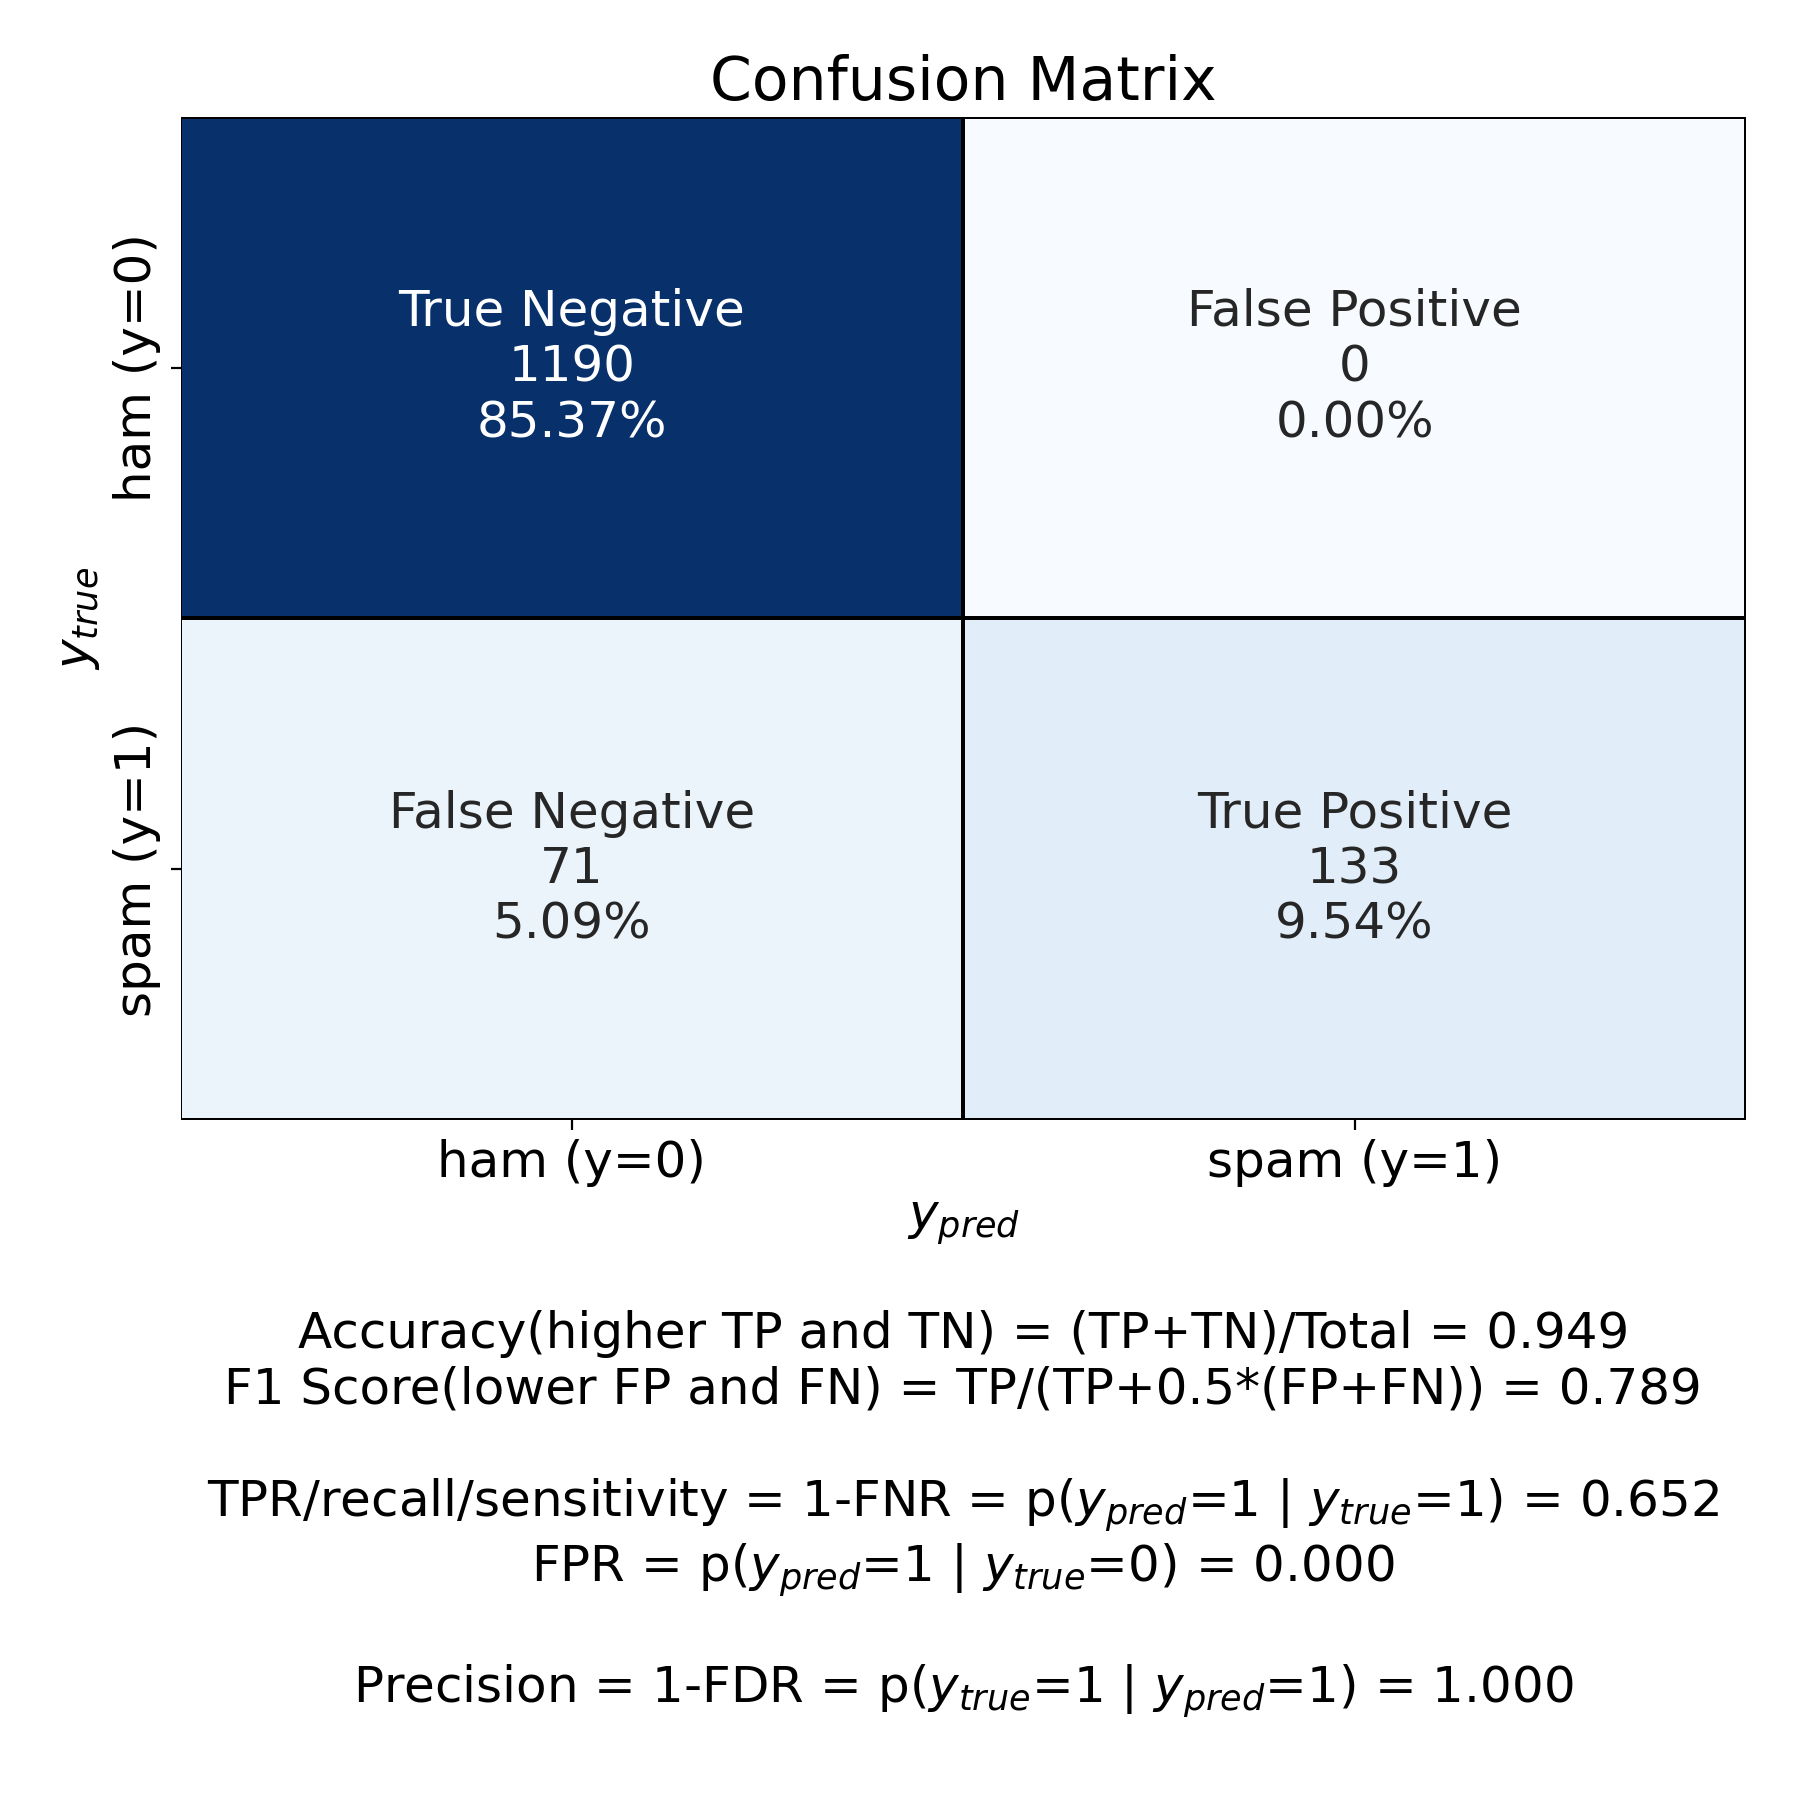
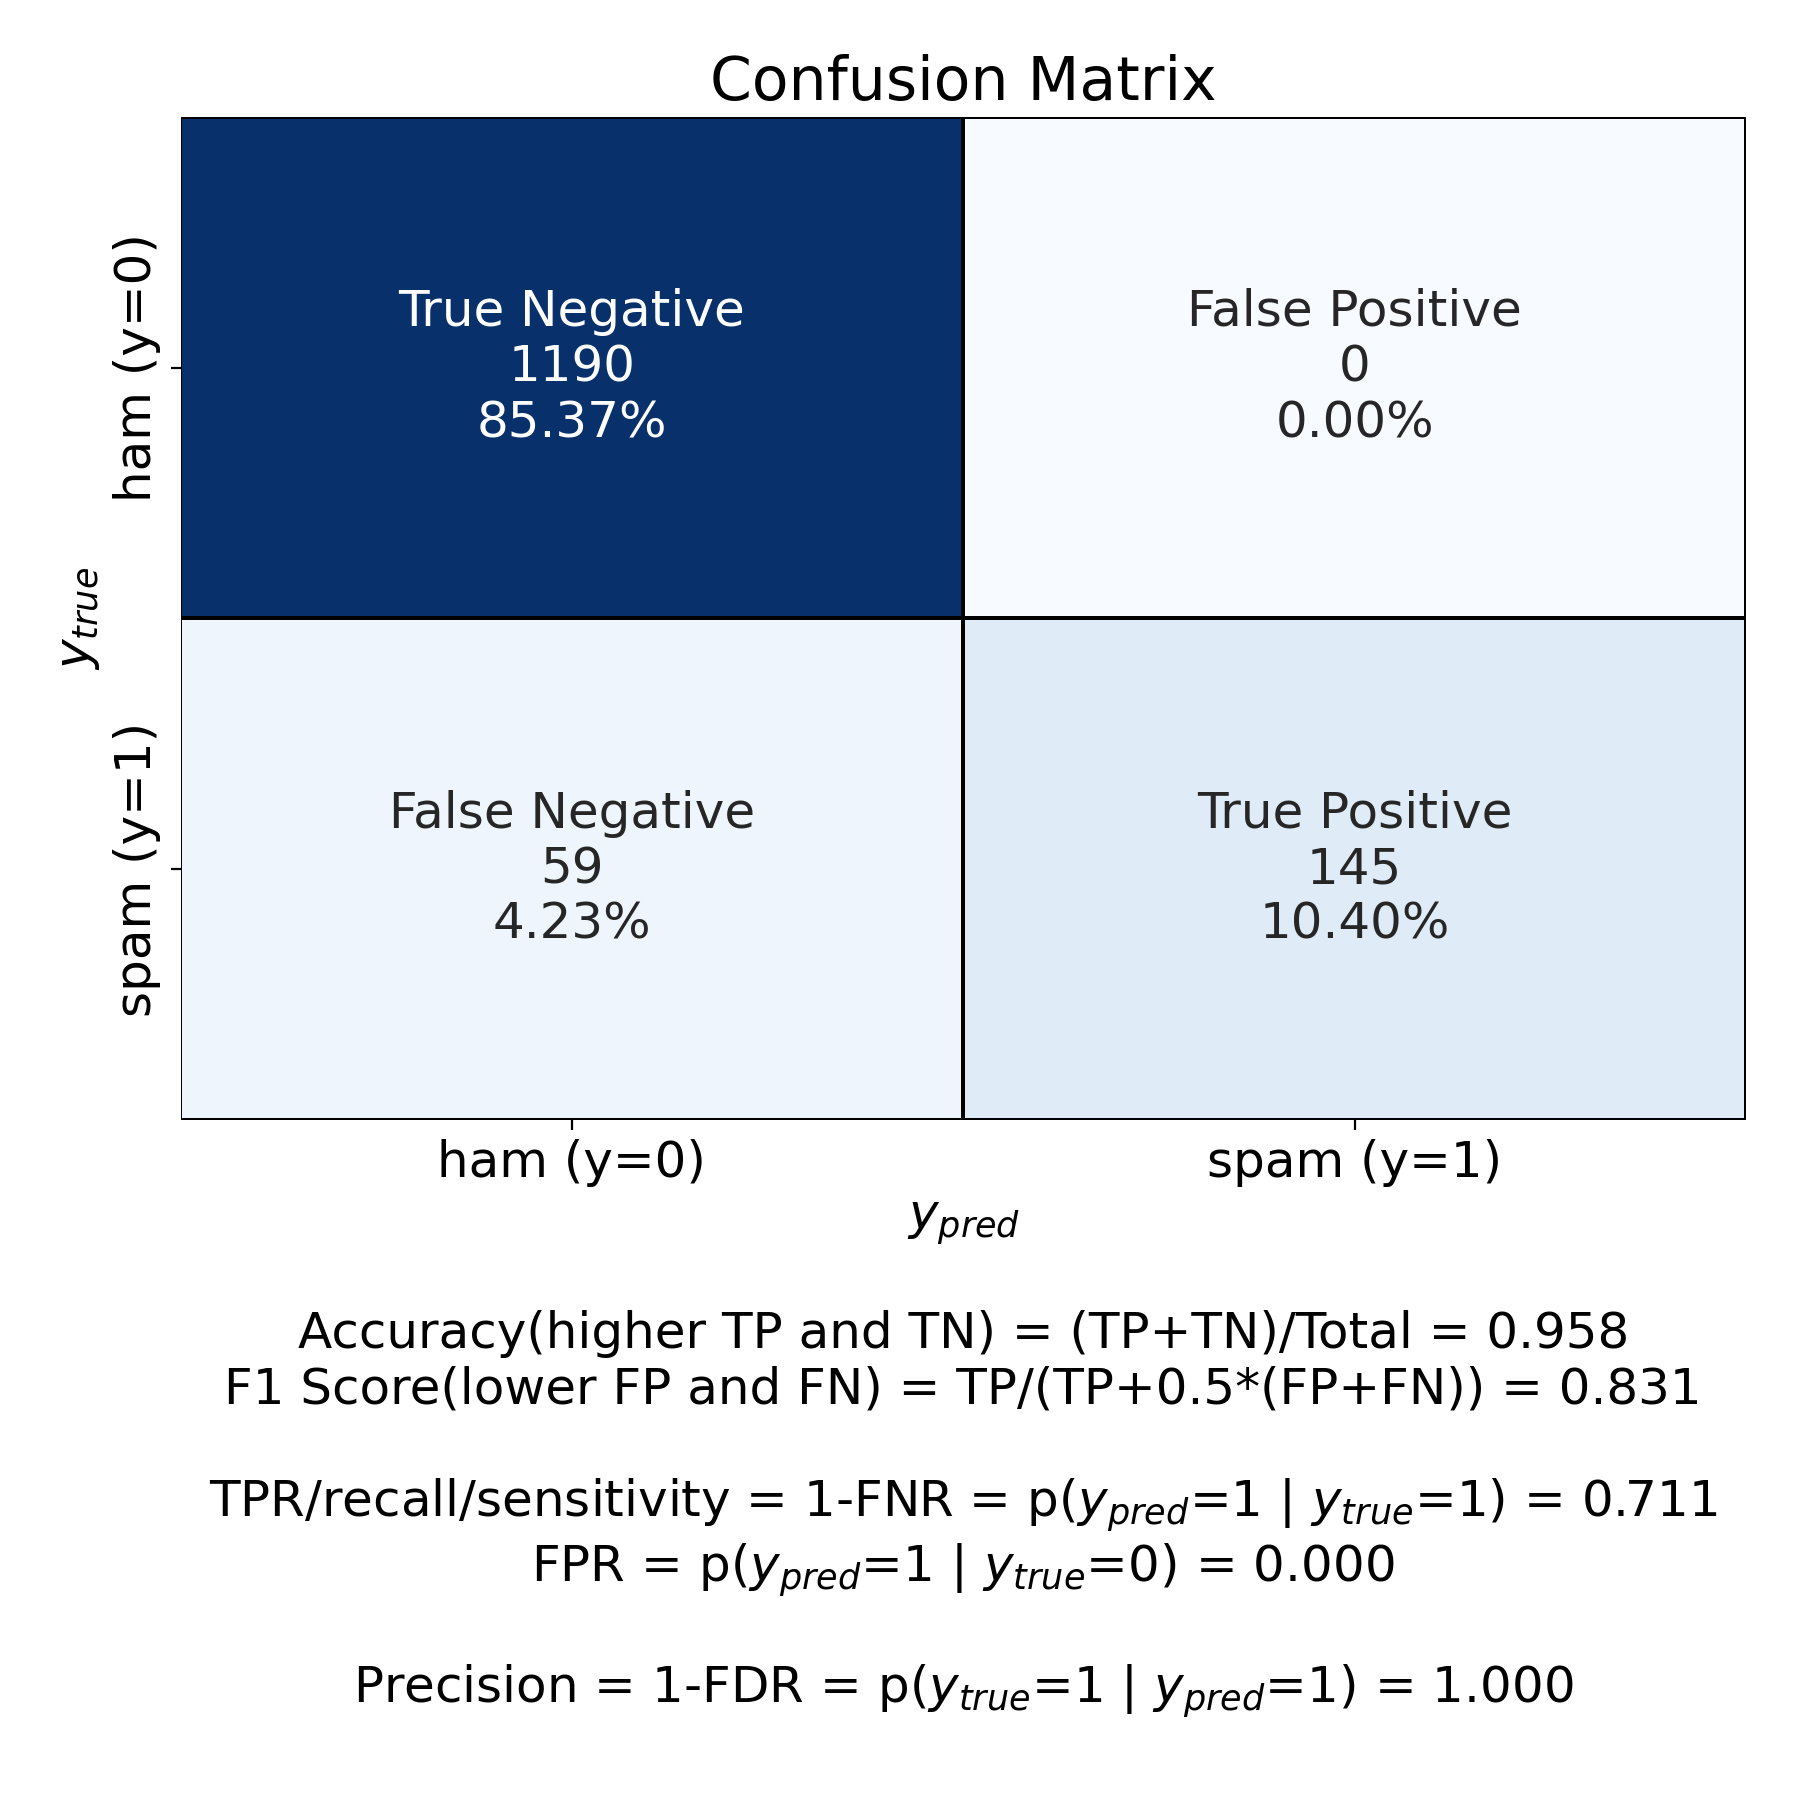
Update

diff --git a/machlearn/naive_bayes/_naive_bayes.py b/machlearn/naive_bayes/_naive_bayes.py
@@ -55,6 +55,46 @@ def __tokens(X):
     return TextBlob(str(X)).words
 
 
+def __naive_bayes_multinomial_pipeline(X_train, y_train):
+    # create pipeline
+    pipeline = Pipeline(steps=[('count_matrix_transformer',
+                                CountVectorizer(ngram_range=(1, 1), analyzer=__tokens)),
+                               ('count_matrix_normalizer',
+                                TfidfTransformer(use_idf=True)),
+                               ('classifier',
+                                naive_bayes_multinomial()),
+                               ])
+    # pipeline parameters to tune
+    hyperparameters = {
+        'count_matrix_transformer__ngram_range': ((1, 1), (1, 2)),
+        'count_matrix_transformer__analyzer': ('word', __tokens, __lemmas),
+        'count_matrix_normalizer__use_idf': (True, False),
+    }
+    grid = GridSearchCV(
+        pipeline,
+        hyperparameters,  # parameters to tune via cross validation
+        refit=True,       # fit using all data, on the best detected classifier
+        n_jobs=-1,
+        scoring='accuracy',
+        cv=5,
+    )
+    # train
+    print("Training a multinomial naive bayes pipeline, while tuning hyperparameters...\n")
+
+    import nltk
+    nltk.download('punkt')
+    nltk.download('wordnet')
+
+    # see also: https://scikit-learn.org/stable/tutorial/text_analytics/working_with_text_data.html
+    # count_vect.fit_transform() in training vs. count_vect.transform() in testing
+    classifier_grid = grid.fit(X_train, y_train)
+    print(
+        f"\nUsing a grid search, the best hyperparameters were found to be:\n"
+        f"Step1: Tokenizing text: CountVectorizer(ngram_range = {repr(classifier_grid.best_params_['count_matrix_transformer__ngram_range'])}, analyzer = {repr(classifier_grid.best_params_['count_matrix_transformer__analyzer'])});\n"
+        f"Step2: Transforming from occurrences to frequency: TfidfTransformer(use_idf = {classifier_grid.best_params_['count_matrix_normalizer__use_idf']}).\n")
+    
+    return classifier_grid
+
 def _demo_SMS_spam():
     """
 
@@ -72,55 +112,24 @@ def _demo_SMS_spam():
     n_ham = data.loc[data.label == 'ham', 'label'].count()
     print(
         f"This demo uses a public dataset of SMS spam, which has a total of {len(data)} messages = {n_ham} ham (legitimate) and {n_spam} spam.\n"
-        f"The goal is to use 'term frequency in the message' to predict whether the message is ham (class=0) or spam (class=1).\n")
+        f"The goal is to use 'term frequency in message' to predict whether a message is ham (class=0) or spam (class=1).\n")
     test_size = 0.25
     X_train, X_test, y_train, y_test = train_test_split(
         data['message'], data['label'], test_size=test_size, random_state=123)
-    # create pipeline
-    pipeline = Pipeline(steps=[('count_matrix_transformer',
-                                CountVectorizer(analyzer=__tokens)),
-                               ('count_matrix_normalizer',
-                                TfidfTransformer(use_idf=True)),
-                               ('classifier',
-                                naive_bayes_multinomial()),
-                               ])
-    # pipeline parameters to tune
-    hyperparameters = {
-        'count_matrix_transformer__analyzer': ('word', __tokens, __lemmas),
-        'count_matrix_normalizer__use_idf': (True, False),
-    }
-    grid = GridSearchCV(
-        pipeline,
-        hyperparameters,  # parameters to tune via cross validation
-        refit=True,       # fit using all data, on the best detected classifier
-        n_jobs=-1,
-        scoring='accuracy',
-        cv=5,
-    )
-    # train
-    print("Training a multinomial naive bayes model, while tuning hyperparameters...\n")
 
-    import nltk
-    nltk.download('punkt')
-    nltk.download('wordnet')
-
-    # see also: https://scikit-learn.org/stable/tutorial/text_analytics/working_with_text_data.html
-    # count_vect.fit_transform() in training vs. count_vect.transform() in testing
-    classifier_grid = grid.fit(X_train, y_train)
-    print(
-        f"\nUsing test_size = {test_size} and a grid search, the best hyperparameters were found to be:\n"
-        f"Step1: Tokenizing text: CountVectorizer(analyzer = {classifier_grid.best_params_['count_matrix_transformer__analyzer']});\n"
-        f"Step2: Transforming from occurrences to frequency: TfidfTransformer(use_idf = {classifier_grid.best_params_['count_matrix_normalizer__use_idf']});\n"
-        f"Step3: Classifier: multinomial naive bayes model\n")
+    # Build and train a pipeline
+    classifier_grid = __naive_bayes_multinomial_pipeline(X_train, y_train)
 
     # model attributes
     count_vect = classifier_grid.best_estimator_.named_steps['count_matrix_transformer']
     vocabulary_dict = count_vect.vocabulary_
-    #clf = classifier_grid.best_estimator_.named_steps['classifier'] # clf = classifier fitted
-    term_proba_df = pd.DataFrame( {'term': list(vocabulary_dict), 'proba_spam': classifier_grid.predict_proba(vocabulary_dict)[:,1]} )
-    term_proba_df = term_proba_df.sort_values(by=['proba_spam'], ascending = False)
-    top_n = 3
-    df = pd.DataFrame.head(term_proba_df,n=top_n)
+    # clf = classifier_grid.best_estimator_.named_steps['classifier'] # clf = classifier fitted
+    term_proba_df = pd.DataFrame({'term': list(
+        vocabulary_dict), 'proba_spam': classifier_grid.predict_proba(vocabulary_dict)[:, 1]})
+    term_proba_df = term_proba_df.sort_values(
+        by=['proba_spam'], ascending=False)
+    top_n = 10
+    df = pd.DataFrame.head(term_proba_df, n=top_n)
     print(f"The top {top_n} terms with highest probability of a message being a spam (the classification is either spam or ham):")
     for term, proba_spam in zip(df['term'], df['proba_spam']):
         print(f"   \"{term}\": {proba_spam:4.2%}")
@@ -134,6 +143,7 @@ def _demo_SMS_spam():
         'ham (y=0)', 'spam (y=1)'))
     plot_ROC_and_PR_curves(fitted_model=classifier_grid, X=X_test,
                            y_true=y_test, y_pred_score=y_score[:, 1], y_pos_label='spam', model_name='Multinomial NB')
+
     # application example
     custom_message = "URGENT! We are trying to contact U. Todays draw shows that you have won a 2000 prize GUARANTEED. Call 090 5809 4507 from a landline. Claim 3030. Valid 12hrs only."
     custom_results = classifier_grid.predict([custom_message])[0]
@@ -177,17 +187,48 @@ def _demo_20newsgroup():
         None
 
     """
+    categories = sorted(['alt.atheism', 'soc.religion.christian', 'comp.graphics', 'sci.med'])
+    print(
+        f"This demo uses a public dataset of 20newsgroup and uses {len(categories)} categories of them: {repr(categories)}.\n"
+        f"The goal is to use 'term frequency in document' to predict which category a document belongs to.\n")
+
     from sklearn.datasets import fetch_20newsgroups
-    twenty_train = fetch_20newsgroups(random_state=123)
+    twenty_train = fetch_20newsgroups(subset='train', categories=categories, random_state=123)
+    twenty_test = fetch_20newsgroups(subset='test', categories=categories, random_state=123)
 
+    # Build and train a pipeline
+    classifier_grid = __naive_bayes_multinomial_pipeline(X_train=twenty_train.data, y_train=twenty_train.target)
 
-def demo(dataset = "SMS_spam"):
+    # model attributes
+    count_vect = classifier_grid.best_estimator_.named_steps['count_matrix_transformer']
+    vocabulary_dict = count_vect.vocabulary_
+    # clf = classifier_grid.best_estimator_.named_steps['classifier'] # clf = classifier fitted
+    for i in len(categories):
+        term_proba_df = pd.DataFrame({'term': list(
+            vocabulary_dict), 'proba': classifier_grid.predict_proba(vocabulary_dict)[:, i]})
+        term_proba_df = term_proba_df.sort_values(
+            by=['proba'], ascending=False)
+        top_n = 10
+        df = pd.DataFrame.head(term_proba_df, n=top_n)
+        print(f"The top {top_n} terms with highest probability of a document being a {repr(categories[i])}:")
+        for term, proba in zip(df['term'], df['proba']):
+            print(f"   \"{term}\": {proba:4.2%}")
+
+    # model evaluation
+    y_pred = classifier_grid.predict(twenty_test.data)
+
+    from ..model_evaluation import plot_confusion_matrix
+    plot_confusion_matrix(y_true=twenty_test.target, y_pred=y_pred, y_classes=categories) # the y_classes are in an alphabetic order
+
+    return classifier_grid
+
+def demo(dataset="SMS_spam"):
     """
 
     This function provides a demo of selected functions in this module.
 
     Required arguments:
-        dataset: A string. It could be "SMS_spam", or "20newsgroup"
+        dataset: A string. Possible values: "SMS_spam", "20newsgroup".
 
     """
     if dataset == "SMS_spam":

diff --git a/machlearn/model_evaluation/_model_evaluation.py b/machlearn/model_evaluation/_model_evaluation.py
@@ -8,7 +8,7 @@
 import numpy as np
 import seaborn as sns
 import matplotlib.pyplot as plt
-from sklearn.metrics import confusion_matrix, roc_curve, roc_auc_score, average_precision_score, plot_precision_recall_curve
+from sklearn.metrics import confusion_matrix, roc_curve, roc_auc_score, average_precision_score, plot_precision_recall_curve, classification_report
 
 
 __font_size__ = 18
@@ -16,10 +16,10 @@ __font_size__ = 18
 
 def plot_confusion_matrix(y_true,
                           y_pred,
-                          y_classes=('y=0', 'y=1'),
+                          y_classes='auto',
                           figsize=(9, 9)):
     """
-    
+
     This function plots the confusion matrix, along with key statistics, and returns accuracy.
 
     Required arguments:
@@ -27,10 +27,13 @@ def plot_confusion_matrix(y_true,
         - y_pred:     An array of shape (m_sample,); the labels could be {0,1}
 
     Optional arguments:
-        - y_classes:  A list, the y_classes to be displayed
+        - y_classes:  A list, the y_classes to be displayed. if auto and two classes, it would be ('y=0', 'y=1') and so on
         - figsize:    A tuple, the figure size. reference: plt.rcParams.get('figure.figsize')
 
     """
+
+    if type(y_classes) is not np.ndarray and y_classes == 'auto':
+        y_classes = [f"y={y}" for y in np.unique(y_true)]
 
     cm = confusion_matrix(y_true, y_pred)
 
@@ -39,6 +42,7 @@ def plot_confusion_matrix(y_true,
                       'False Negative', 'True Positive']
     else:
         cell_label = ['' for i in range(cm.size)]
+
 
     cell_count = ["{0:0.0f}".format(val) for val in cm.flatten()]
 
@@ -95,6 +99,8 @@ def plot_confusion_matrix(y_true,
     plt.show()
 
     plt.rcParams.update({'font.size': old_font_size})
+
+    print(classification_report(y_true, y_pred, target_names = y_classes))
 
     return accuracy,
 

diff --git a/tests/naive_bayes.py b/tests/naive_bayes.py
@@ -6,4 +6,6 @@
 
 from machlearn import naive_bayes as nb
 
-nb.demo()
+nb.demo(dataset="SMS_spam")
+nb.demo(dataset="20newsgroup")
+

diff --git a/README.rst b/README.rst
@@ -84,18 +84,17 @@ Selected Output:
    This demo uses a public dataset of SMS spam, which has a total of 5574 messages = 747 spam and 4827 ham (legitimate).
    The goal is to use 'term frequency in the message' to predict whether the message is ham (class=0) or spam (class=1).
 
-   Using test_size = 0.25 and a grid search, the best hyperparameters were found to be:
-      Step1: Tokenizing text: CountVectorizer(analyzer = __lemmas);
+   Using a grid search, the best hyperparameters were found to be:
+      Step1: Tokenizing text: CountVectorizer(analyzer = 'word', ngram_range = (1, 1));
       Step2: Transforming from occurrences to frequency: TfidfTransformer(use_idf = True).
 
-   The top 3 terms with highest probability of a message being a spam (the classification is either spam or ham):
-      "claim": 81.28%
-      "prize": 80.24%
-      "won": 76.29%
+   The top 2 terms with highest probability of a message being a spam (the classification is either spam or ham):
+      "claim": 80.73%
+      "prize": 80.06%
 
    Application example:
       - Message: "URGENT! We are trying to contact U. Todays draw shows that you have won a 2000 prize GUARANTEED. Call 090 5809 4507 from a landline. Claim 3030. Valid 12hrs only."
-      - Probability of class=1 (spam): 95.85%
+      - Probability of class=1 (spam): 98.32%
       - Classification: spam
 
 
